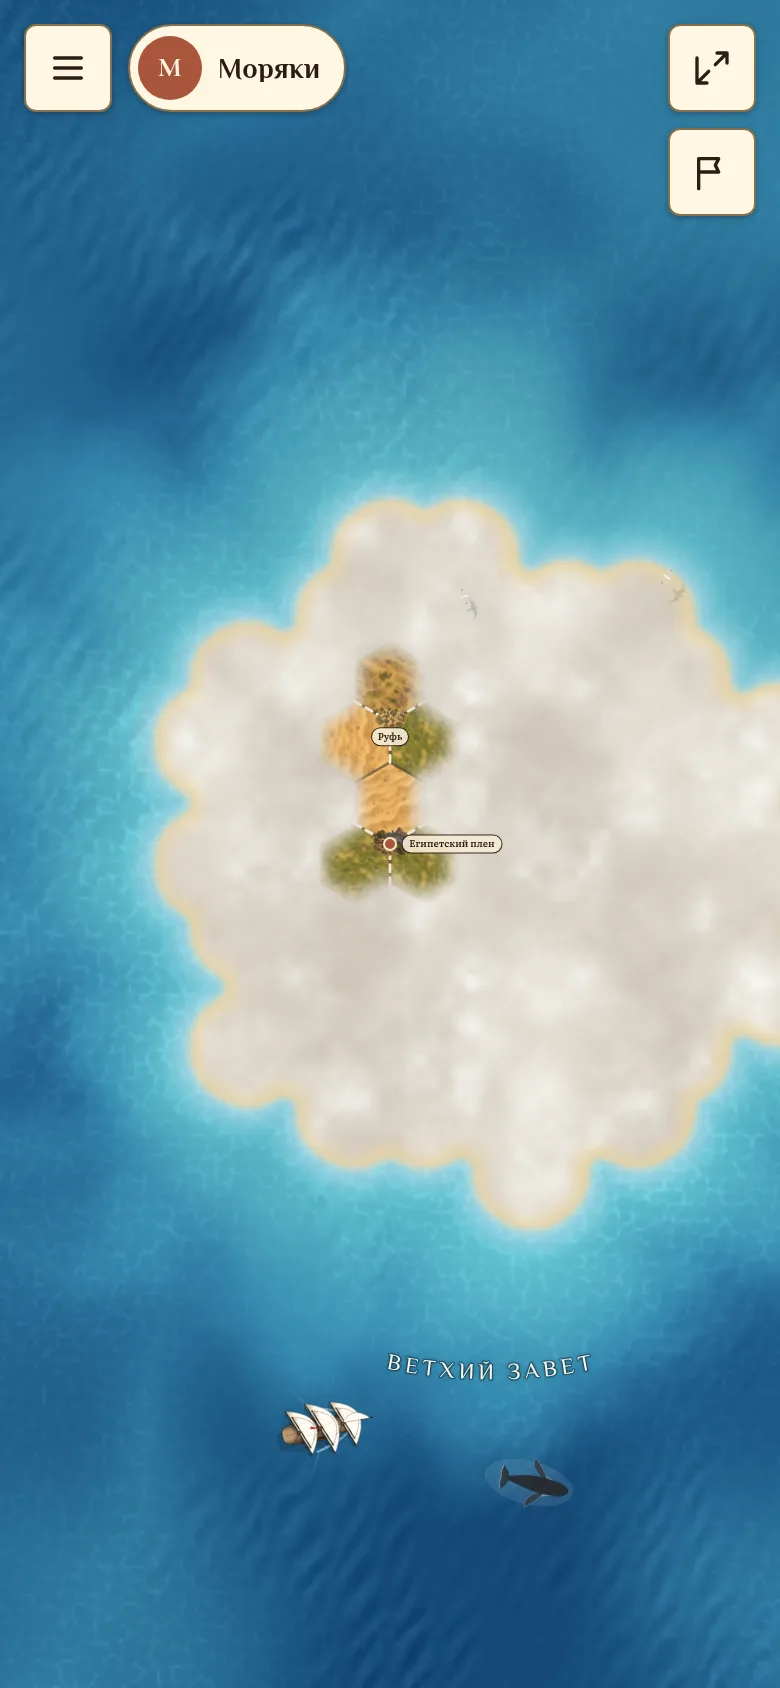
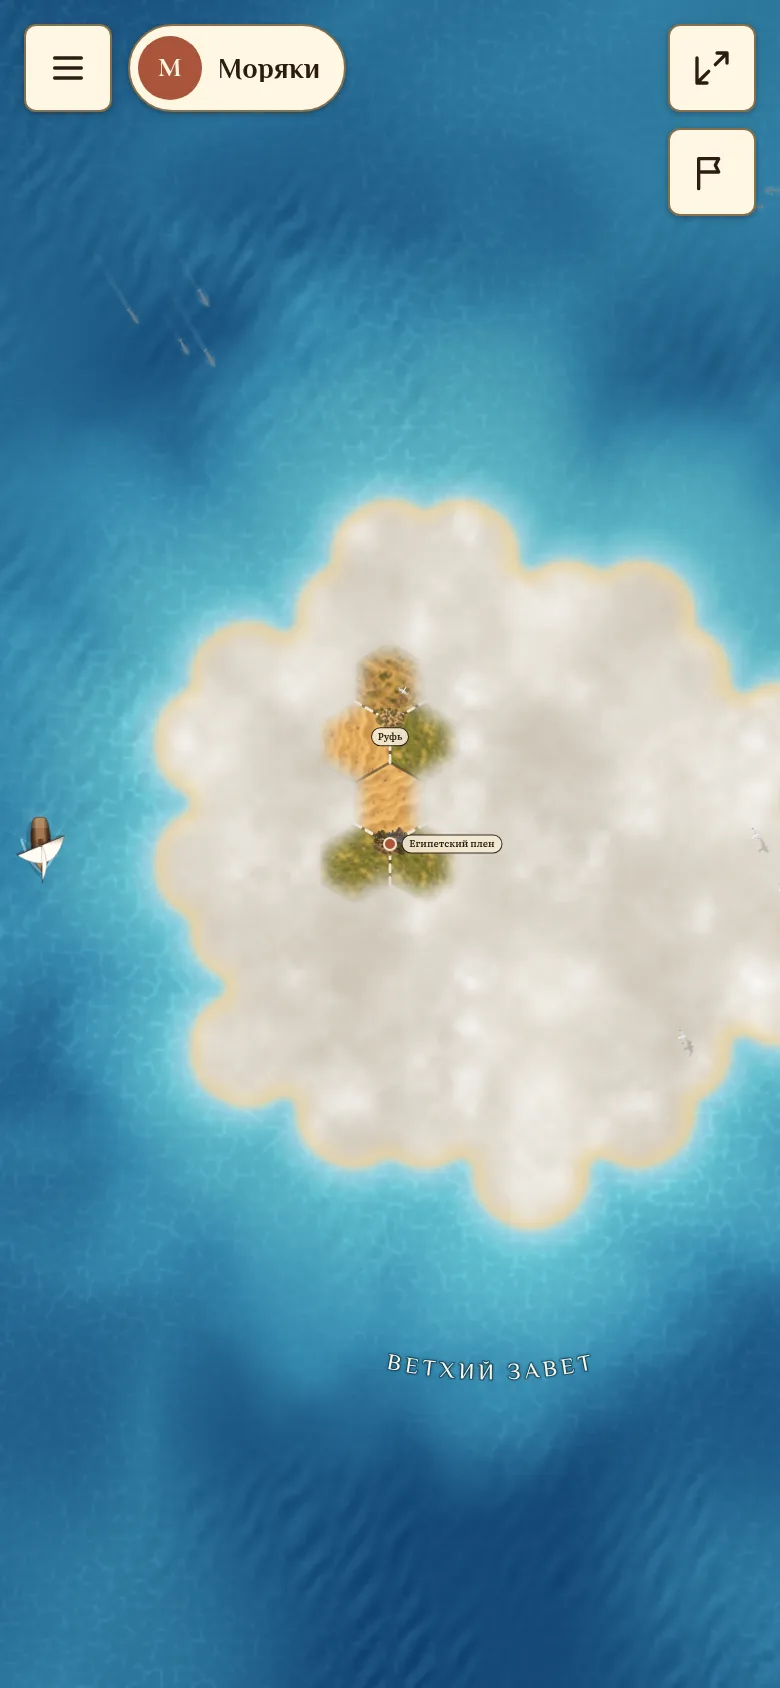
Стекло у игроков: боковое меню, лист дела, город и испытание просвечивают карту (решение владельца 21.09); снимки инструкции обновлены
Claude-Session: https://claude.ai/code/session_01GYZTpVpHB6EzyvMrXyiWEP

Changed region(s): [[0.6154, 0.8626, 0.7385, 0.8934], [0.3385, 0.8318, 0.4615, 0.8626], [0.0308, 0.4621, 0.0923, 0.5237]]

diff --git a/apps/web/src/styles/theme.css b/apps/web/src/styles/theme.css
@@ -56,7 +56,7 @@ input[type=range]:read-only:not([type=checkbox]):not([type=radio]) { background:
 h1 .ico, h2 .ico, h3 .ico { width: 28px; height: 28px; border-radius: 0; background: none; color: var(--bronze-ink); filter: none; margin-right: 2px; }
 h1 .ico .i, h2 .ico .i, h3 .ico .i { width: 22px; height: 22px; }
 /* Внутри шторки лист не повторяем: карточки — потёртый лист без текстуры. */
-.overlay .card { background: var(--paper-2); border-color: var(--paper-edge); box-shadow: none; }
+.overlay .card { background: rgba(255,250,236,.3); border-color: rgba(255,250,236,.6); box-shadow: none; }
 
 /* ---------- Чипы: ярлычки с одной кромкой; счётчики — светлые кружки ---------- */
 .chip, .badge, .pill, .stat { font: 700 var(--fs-xs)/1 var(--font-ui); letter-spacing: .02em; background: var(--paper-light); border-color: var(--paper-edge); color: var(--ink-2); box-shadow: none; }
@@ -98,7 +98,9 @@ code { background: var(--paper-light); border-color: var(--paper-edge); }
 .tabs.sticky { background: var(--paper-2); }
 
 /* ---------- Шторка, диалог, меню «⋯», тост ---------- */
-.overlay { isolation: isolate; background: var(--paper-bg); border-top: 2px solid var(--bronze); box-shadow: var(--shadow-deep); overflow: hidden; }
+/* Все шторки и листы (дело, город, испытание, разделы администратора) — стекло: фон просвечивает сквозь них (решение владельца 21.09) */
+.overlay { isolation: isolate; background: rgba(255,250,236,.55); border-top: 2px solid var(--bronze); box-shadow: 0 10px 30px rgba(59,36,21,.18); overflow: hidden; -webkit-backdrop-filter: blur(18px) saturate(1.05); backdrop-filter: blur(18px) saturate(1.05); }
+.overlay input, .overlay select, .overlay textarea, .overlay .stepper { background: rgba(255,250,236,.7); }
 .overlay .overlay-head { border-bottom: 1px solid var(--paper-edge); box-shadow: none; }
 .overlay .overlay-head h2 { font: 700 var(--fs-xl)/var(--lh-tight) var(--font-display); }
 .overlay .overlay-foot { border-top: 1px solid var(--paper-edge); }

diff --git a/apps/web/src/styles/theme-player.css b/apps/web/src/styles/theme-player.css
@@ -16,7 +16,9 @@
 .finish-banner { background: var(--paper-light); border: 1px solid var(--moss-ink); color: var(--moss-ink); font-family: var(--font-ui); box-shadow: 0 1px 3px rgba(0,0,0,.28); }
 
 /* ---------- Меню команды: голова — дерево с лентой цвета команды, секции — лист ---------- */
-.side-menu { background: var(--paper-bg); }
+/* Боковое меню команды — стекло (решение владельца 21.09) */
+.side-menu { background: rgba(255,250,236,.55); -webkit-backdrop-filter: blur(18px) saturate(1.05); backdrop-filter: blur(18px) saturate(1.05); }
+.side-menu .side-head { background: rgba(255,250,236,.35); }
 @media (min-width: 1024px) { .side-menu { border-right: 1px solid var(--bronze-deep); box-shadow: 2px 0 8px rgba(31,20,10,.16); } }
 /* Голова меню команды — светлый лист с лентой цвета команды (решение владельца 20.09: ничего тёмного) */
 .side-head { background: var(--paper-light); color: var(--ink); border-bottom: 3px solid var(--team, var(--bronze)); box-shadow: none; }
@@ -29,7 +31,7 @@
 .side-menu .section h2 > .i { width: 22px; height: 22px; padding: 0; border-radius: 0; background: none; color: var(--bronze-ink); filter: none; }
 .side-menu .section h2 .count { font: 400 18px/1 var(--font-display); color: var(--ink-2); }
 .side-menu .list .title { font-family: var(--font-book); }
-.side-menu .card { background: var(--paper-2); box-shadow: none; padding: var(--sp-3); margin-bottom: 0; }
+.side-menu .card { background: rgba(255,250,236,.3); border-color: rgba(255,250,236,.6); box-shadow: none; padding: var(--sp-3); margin-bottom: 0; }
 .side-menu .card-head h2 { font-size: var(--fs-lg); }
 /* Положение команд: место — светлый кружок с обводкой, названия — Philosopher, счёт — Literata с табличными цифрами */
 .standing { border-top: 1px solid var(--paper-edge); box-shadow: none; }

diff --git a/apps/web/src/lib/en/changelog.ts b/apps/web/src/lib/en/changelog.ts
@@ -1,5 +1,6 @@
 /** EN-строки раздела «Что нового». Ключ — русская строка из content/changelog.ts. */
 export const CHANGELOG_EN: Record<string, string> = {
+  "У игроков тоже стекло: боковое меню команды, лист дела, город и испытание просвечивают карту сквозь размытие.": "Players get glass too: the team side menu, the deed sheet, the city and the trial show the map through a blur.",
   "Разделы администратора над картой стали настоящим стеклом: карта просвечивает сквозь попап и блоки внутри него.": "The administrator's sections over the map are now real glass: the map shows through the pop-up and the blocks inside it.",
   "Карта администратора: переключатель «чьими глазами» стал рядом кружков (корона и команды, имя по наведению), история ходов — одной плашкой «Сейчас · N ходов», которая раскрывается стрелками и ползунком по нажатию.": "Administrator's map: the “whose view” switch is now a row of circles (crown and teams, name on hover), and the move history is a single “Now · N moves” pill that expands into arrows and a slider on tap.",
   "Вход через Google: кнопка на входе и в регистрации, почта подтверждается сразу, остаётся выбрать ник; в аккаунте можно привязать или отвязать Google. Появилась страница «О персональных данных».": "Sign in with Google: a button on the sign-in and sign-up screens, the email is confirmed at once and only a nickname remains to pick; Google can be linked or unlinked in the account. A new “About personal data” page.",

diff --git a/apps/web/src/content/changelog.ts b/apps/web/src/content/changelog.ts
@@ -6,6 +6,7 @@ export interface ChangeDay { date: string; items: string[] }
 
 export const CHANGELOG: ChangeDay[] = [
   { date: "2026-09-21", items: [
+    "У игроков тоже стекло: боковое меню команды, лист дела, город и испытание просвечивают карту сквозь размытие.",
     "Разделы администратора над картой стали настоящим стеклом: карта просвечивает сквозь попап и блоки внутри него.",
     "Карта администратора: переключатель «чьими глазами» стал рядом кружков (корона и команды, имя по наведению), история ходов — одной плашкой «Сейчас · N ходов», которая раскрывается стрелками и ползунком по нажатию.",
     "Вход через Google: кнопка на входе и в регистрации, почта подтверждается сразу, остаётся выбрать ник; в аккаунте можно привязать или отвязать Google. Появилась страница «О персональных данных».",
